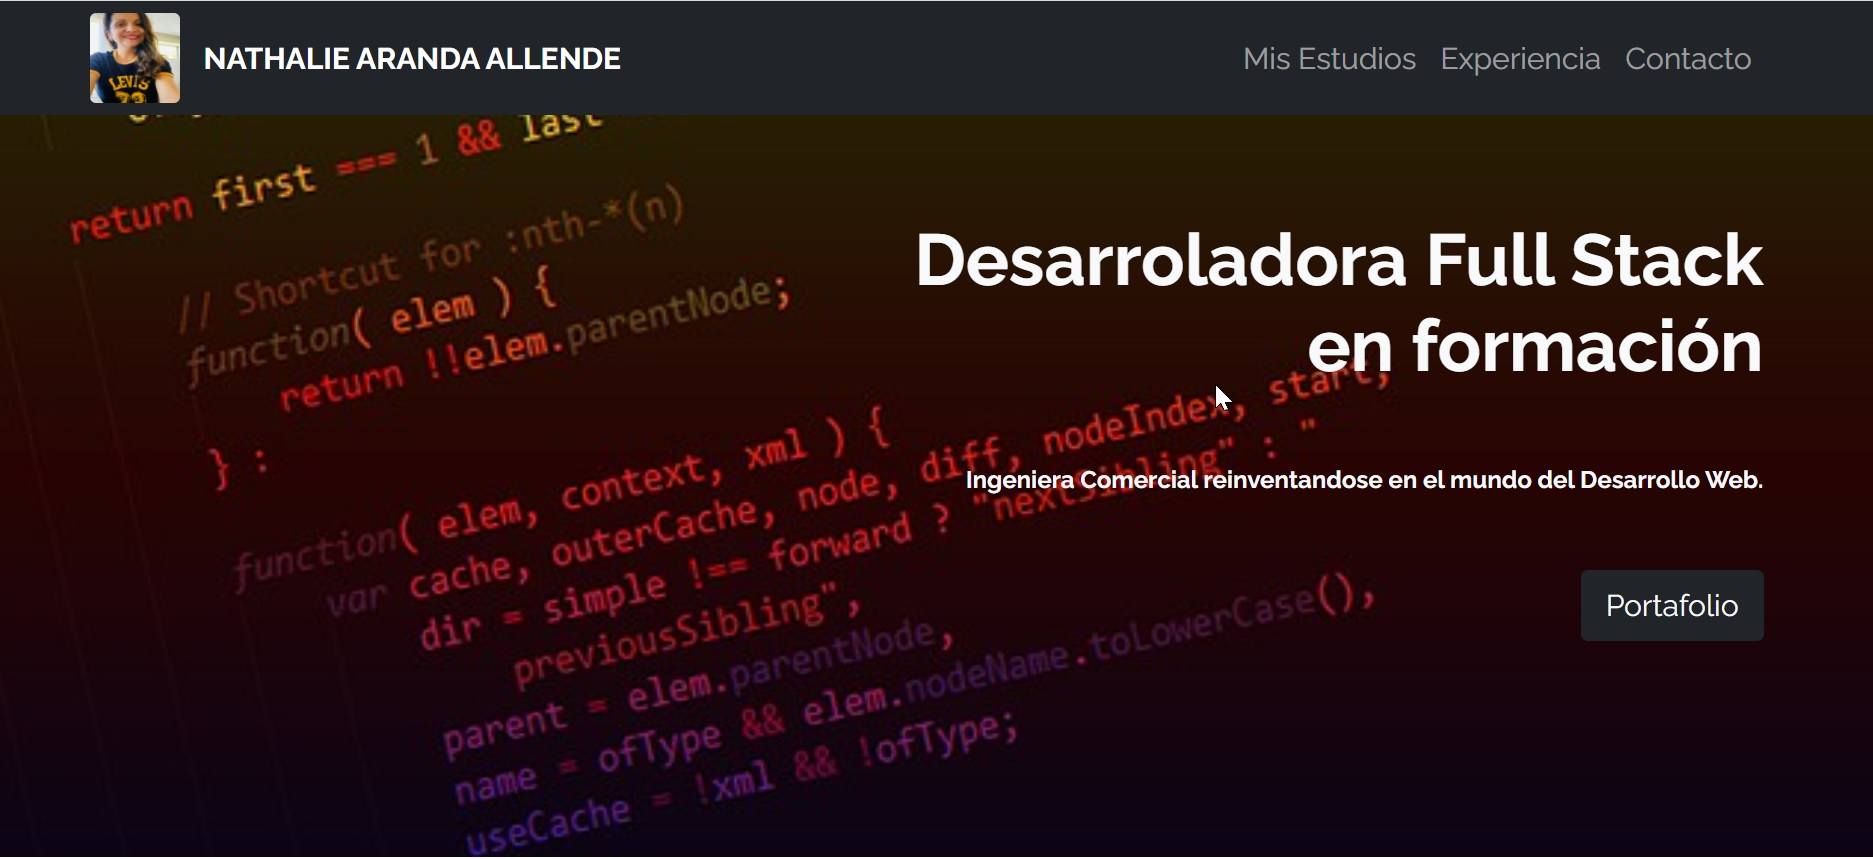
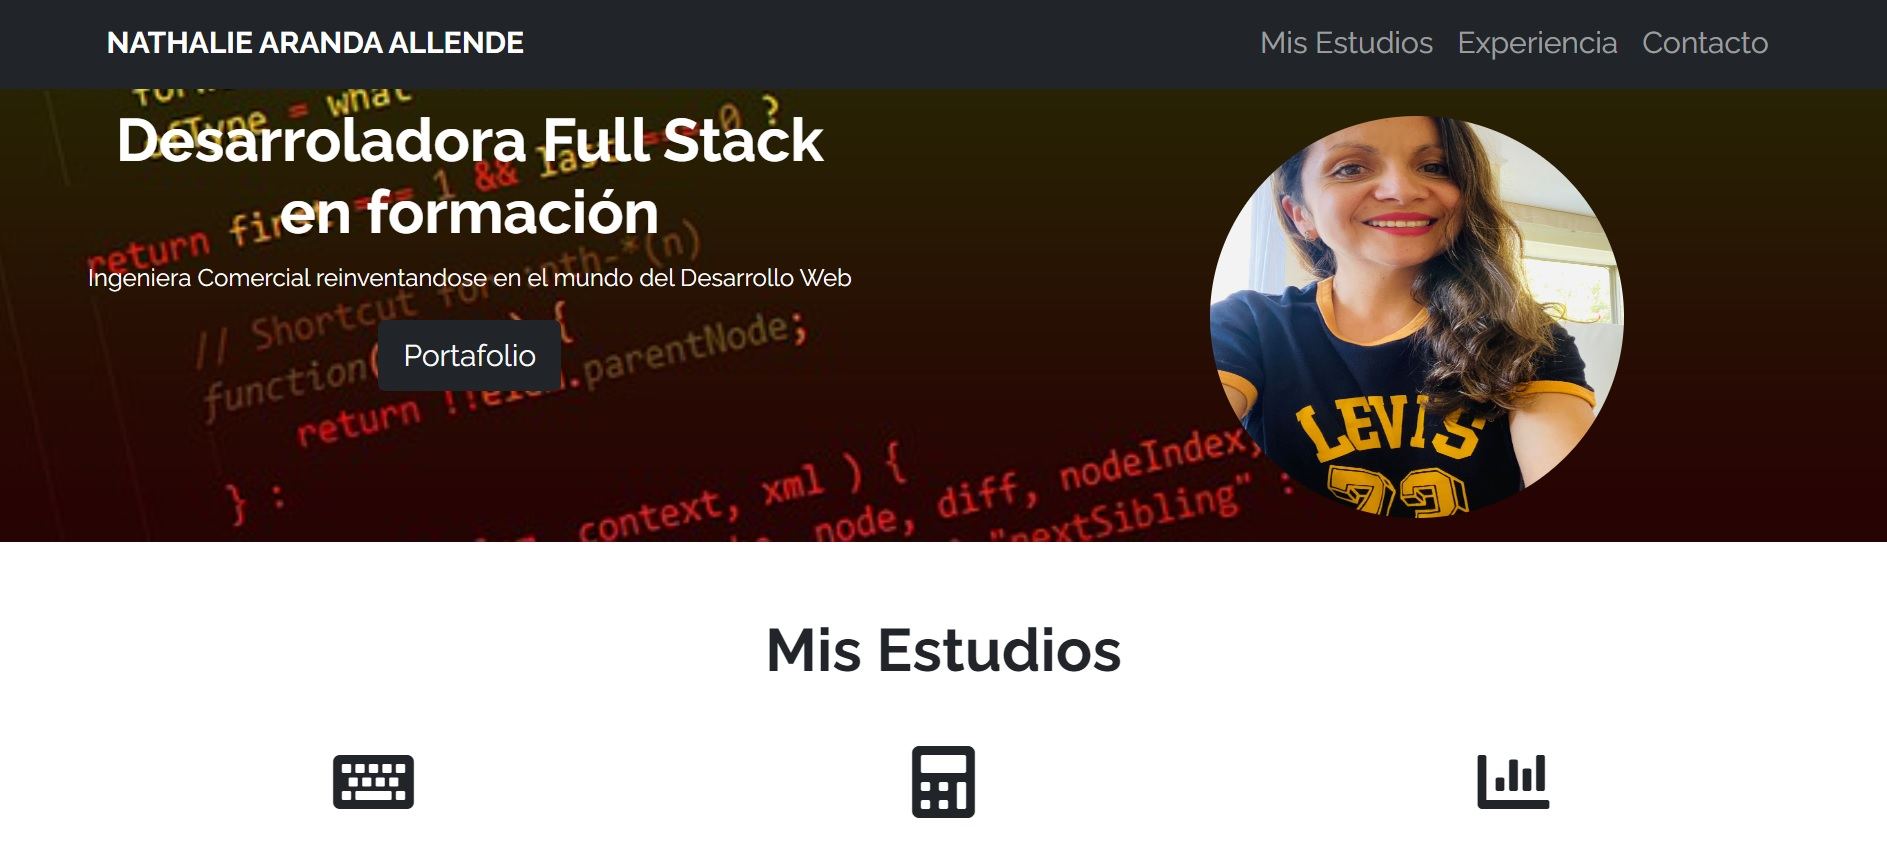
listo links en portafolio

diff --git a/portafolio.html b/portafolio.html
@@ -19,9 +19,12 @@
 
     <header>
         <nav class="navbar navbar-dark bg-dark mb-3 py-3">
+           
             <div class="container-fluid">
               <span class="navbar-brand mb-0 h1">PORTAFOLIO</span>
+              <a href="index.html" class="btn btn-lg btn-secondary text-light">Volver</a>
             </div>
+            
           </nav>
     </header>
 
@@ -32,7 +35,7 @@
                 <div class="card">
                     <img src="./assets/img/desafio1.jpg " class="card-img-top" alt="Desafio 1, CV Nathalie Aranda">
                     <div class="card-body">
-                        <h5 class="card-title text-body"> Desafio 1: Mi primer CV </h5>
+                        <h5 class="card-title text-body"><a href="https://github.com/NArandaAllende/desafio-1-cv-html" target="_blank">Desafio 1: Mi primer CV</a></h5>
                         <p class="card-text text-secondary">HTML</p>
                     </div>
                 </div>
@@ -42,7 +45,7 @@
                 <div class="card">
                     <img src="./assets/img/desafio2.jpg" class="card-img-top" alt="Desafio 2, Landing page">
                     <div class="card-body">
-                        <h5 class="card-title text-body"> Desafio 2: Landing Page </h5>
+                        <h5 class="card-title text-body"><a href="https://github.com/NArandaAllende/desafio-2-landing-page-css" target="_blank">Desafio 2: Landing Page</a></h5>
                         <p class="card-text text-secondary">CSS</p>
                     </div>
                 </div>
@@ -52,7 +55,7 @@
                 <div class="card">
                     <img src="./assets/img/desafio3.jpg" class="card-img-top" alt="Desafio 3, Iguana page">
                     <div class="card-body">
-                        <h5 class="card-title text-body"> Desafio 3: Iguana page</h5>
+                        <h5 class="card-title text-body"><a href="https://github.com/NArandaAllende/desafio-3-iguana-page-flex-css" target="_blank">Desafio 3: Iguana page</a></h5>
                         <p class="card-text text-secondary">Flex</p>
                     </div>
                 </div>
@@ -62,7 +65,7 @@
                 <div class="card">
                     <img src="./assets/img/desafio4.jpg" class="card-img-top" alt=" Desafio 4, Cupon">
                     <div class="card-body">
-                        <h5 class="card-title text-body"> Desafio 4: Cupon</h5>
+                        <h5 class="card-title text-body"><a href="https://github.com/NArandaAllende/desafio-4-bootstrap-cards" target="_blank">Desafio 4: Cupon</a></h5>
                         <p class="card-text text-secondary">Bootstrap</p>
                     </div>
                 </div>
@@ -72,7 +75,7 @@
                 <div class="card">
                     <img src="./assets/img/desafio5.jpg" class="card-img-top" alt="Desafio 5, GIT y Github">
                     <div class="card-body">
-                        <h5 class="card-title text-body"> Desafio 5: Github </h5>
+                        <h5 class="card-title text-body"><a href="https://github.com/NArandaAllende/fdsw-github" target="_blank">Desafio 5: Github</a></h5>
                         <p class="card-text text-secondary"> GIT y Github</p>
                     </div>
                 </div>
@@ -82,7 +85,7 @@
                 <div class="card">
                     <img src="./assets/img/desafio6.jpg" class="card-img-top" alt="Prueba final CV Nathalie Aranda">
                     <div class="card-body">
-                        <h5 class="card-title text-body"> Prueba Modulo: CV - Portafolio</h5>
+                        <h5 class="card-title text-body"><a href="https://github.com/NArandaAllende/prueba-final-modulo-1" target="_blank">Prueba Modulo: CV - Portafolio</a></h5>
                         <p class="card-text text-secondary"> HTML - CSS - Flex - Bootstrap - GIT - Github</p>
                     </div>
                 </div>

diff --git a/index.html b/index.html
@@ -5,12 +5,13 @@
     <meta charset="UTF-8">
     <meta http-equiv="X-UA-Compatible" content="IE=edge">
     <meta name="viewport" content="width=device-width, initial-scale=1.0">
+    <title>Nathalie Aranda</title>
     <link rel="preconnect" href="https://fonts.googleapis.com">
     <link rel="preconnect" href="https://fonts.gstatic.com" crossorigin>
     <link href="https://fonts.googleapis.com/css2?family=Raleway:wght@400;700&display=swap" rel="stylesheet">
     <link href="https://cdn.jsdelivr.net/npm/bootstrap@5.1.3/dist/css/bootstrap.min.css" rel="stylesheet"
         integrity="sha384-1BmE4kWBq78iYhFldvKuhfTAU6auU8tT94WrHftjDbrCEXSU1oBoqyl2QvZ6jIW3" crossorigin="anonymous">
-    <title>Nathalie Aranda</title>
+    
     <link rel="stylesheet" href="https://cdnjs.cloudflare.com/ajax/libs/font-awesome/5.9.0/css/all.min.css"
         integrity="sha512-q3eWabyZPc1XTCmF+8/LuE1ozpg5xxn7iO89yfSOd5/oKvyqLngoNGsx8jq92Y8eXJ/IRxQbEC+FGSYxtk2oiw=="
         crossorigin="anonymous" referrerpolicy="no-referrer" />
@@ -47,37 +48,21 @@
         </div>
     </nav>
 
-    <!-- <header id="Hero-Section" class="text-light text-end py-5 mt-5">
-        <div class="container">
-            <div class="ms-auto col-12 col-md-7 ">
-                <h1 class="display-1 fw-bold my-5 sizeFont">
-                    Desarroladora Full Stack <br> en formación
+    <section class="container-fluid pt-5 bg-img-descripcion text-white">
+        <div class="row pt-3">
+            <div class="col-md-6 text-center pt-2">
+                <h1><strong> Desarroladora Full Stack <br> en formación</strong>
                 </h1>
-                <p class="my-5">
-                <strong>Ingeniera Comercial reinventandose en el mundo del Desarrollo Web. </strong>
+                <p class="">
+                    Ingeniera Comercial reinventandose en el mundo del Desarrollo Web
                 </p>
                 <div class="mb-5 pb-5">
-                    <button class="btn btn-lg btn-dark text-light">Portafolio</button>
+                    <a href="portafolio.html" class="btn btn-lg btn-dark text-light">Portafolio</a>
                 </div>
             </div>
+            <img class="col-md-6 mx-auto py-3 fotoDescripcion rounded-circle" src="assets/img/nathalie.jpg"
+                alt="fotografia Nathalie Aranda">
         </div>
-    </header> -->
-
-    <section class="descripcion pt-5">
-
-        <div class="textoDescripcion">
-            <h1><strong> Desarroladora Full Stack <br> en formación</strong>
-            </h1>
-            <p class="textoDescripcion2">
-                Ingeniera Comercial reinventandose en el mundo del Desarrollo Web
-            </p>
-            <div class="mb-5 pb-5">
-                <button class="btn btn-lg btn-dark text-light">Portafolio</button>
-            </div>
-        </div>
-        <img class="fotoDescripcion rounded-circle" src="assets/img/nathalie.jpg"
-            alt="fotografia Nathalie Aranda">
-
     </section>
 
     <section id="Acerca-de-mi" class="container text-center my-5">

diff --git a/assets/css/estilos.css b/assets/css/estilos.css
@@ -2,40 +2,10 @@ body {
   font-family: "Raleway", sans-serif;
 }
 
-
-/* Hero Section */
-
-#Hero-Section {
-  background-image: url("../img/desarrolloPort.jpg");
-  background-repeat: no-repeat;
-  background-size: cover;
-  background-position: center;
-  
+.navbar-brand {
+  width: 100px;
 }
 
-.descripcion {
-  display: flex;
-  justify-content: space-around;
-  align-items: center;
-  width: 100%;
-  height: 500px;
-  background-image: url("../img/desarrolloPort.jpg");
-  background-repeat: no-repeat;
-  background-size: cover;
-}
-
-.textoDescripcion {
-  width: 475px;
-  height: 197px;
-  text-align: left;
-  color: hsla(0, 0%, 100%, 1);
-  font-family: 'Raleway', sans-serif;
-  font-size: 20px;
-}
-
-.textoDescripcion2 {
-  padding-top: 20px;
-}
 
 .fotoDescripcion {
   width: 300px;
@@ -46,18 +16,13 @@ body {
   font-size: 3rem;
 }
 
-
-/* Mis trabajos */
-
 #Mis-trabajos .image-top {
   height: 250px;
   background-repeat: no-repeat;
   background-size: cover;
   background-position: center;
-  
-}
 
-/* Contacto */
+}
 
 #Contacto form label {
   font-weight: 700;
@@ -68,9 +33,10 @@ body {
   #Contacto form label {
     font-weight: 400;
   }
+}
 
-  .navbar-brand{
-    width: 100px;
-  }
-
+.bg-img-descripcion {
+  background-image: url("../img/desarrolloPort.jpg");
+  background-repeat: no-repeat;
+  background-size: cover;
 }
